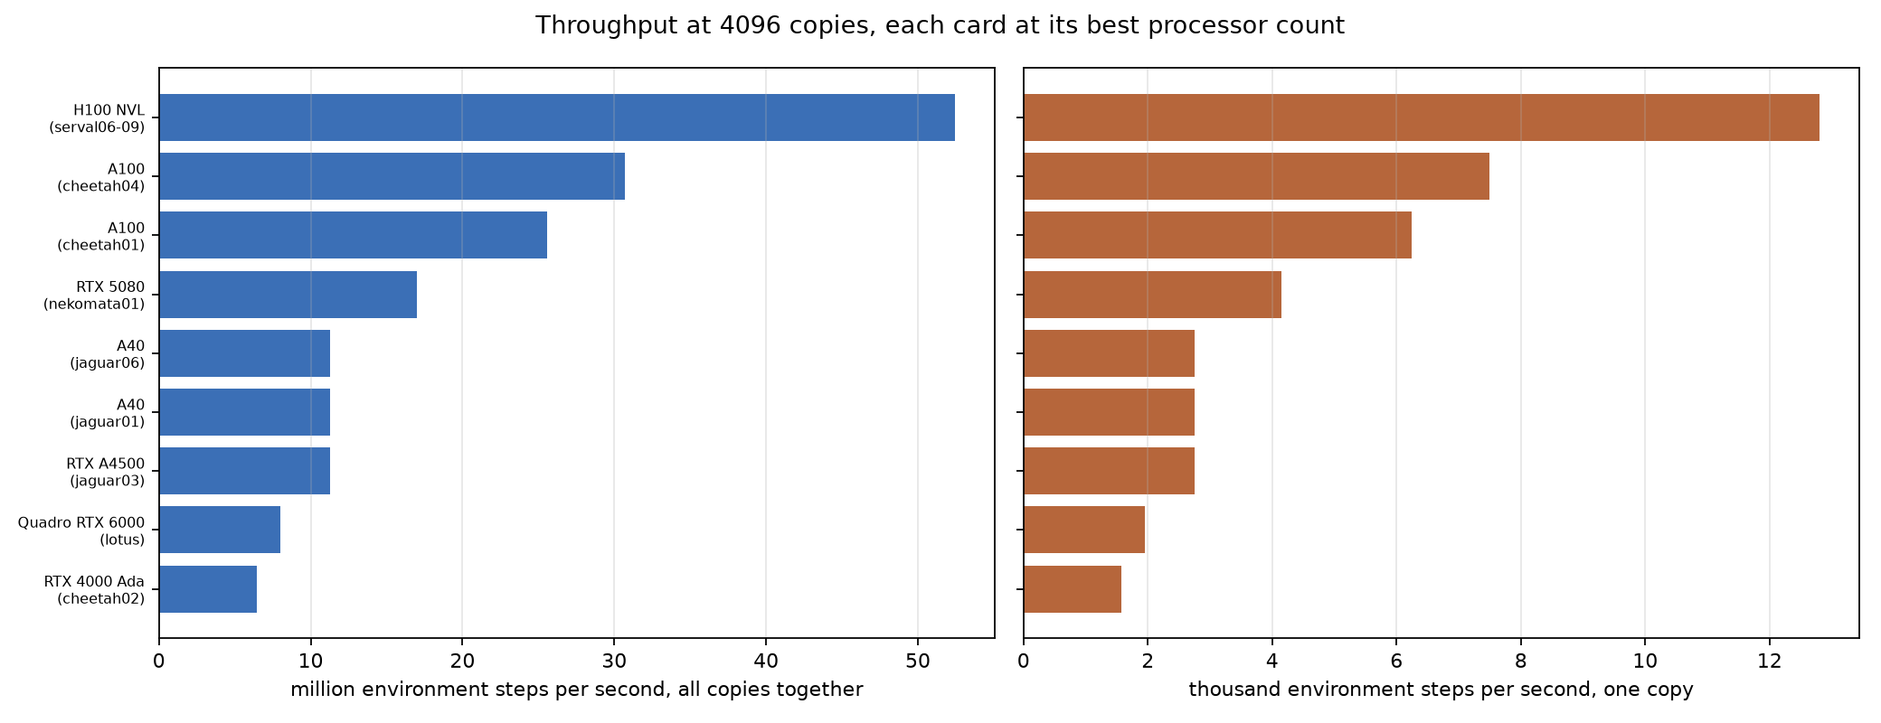
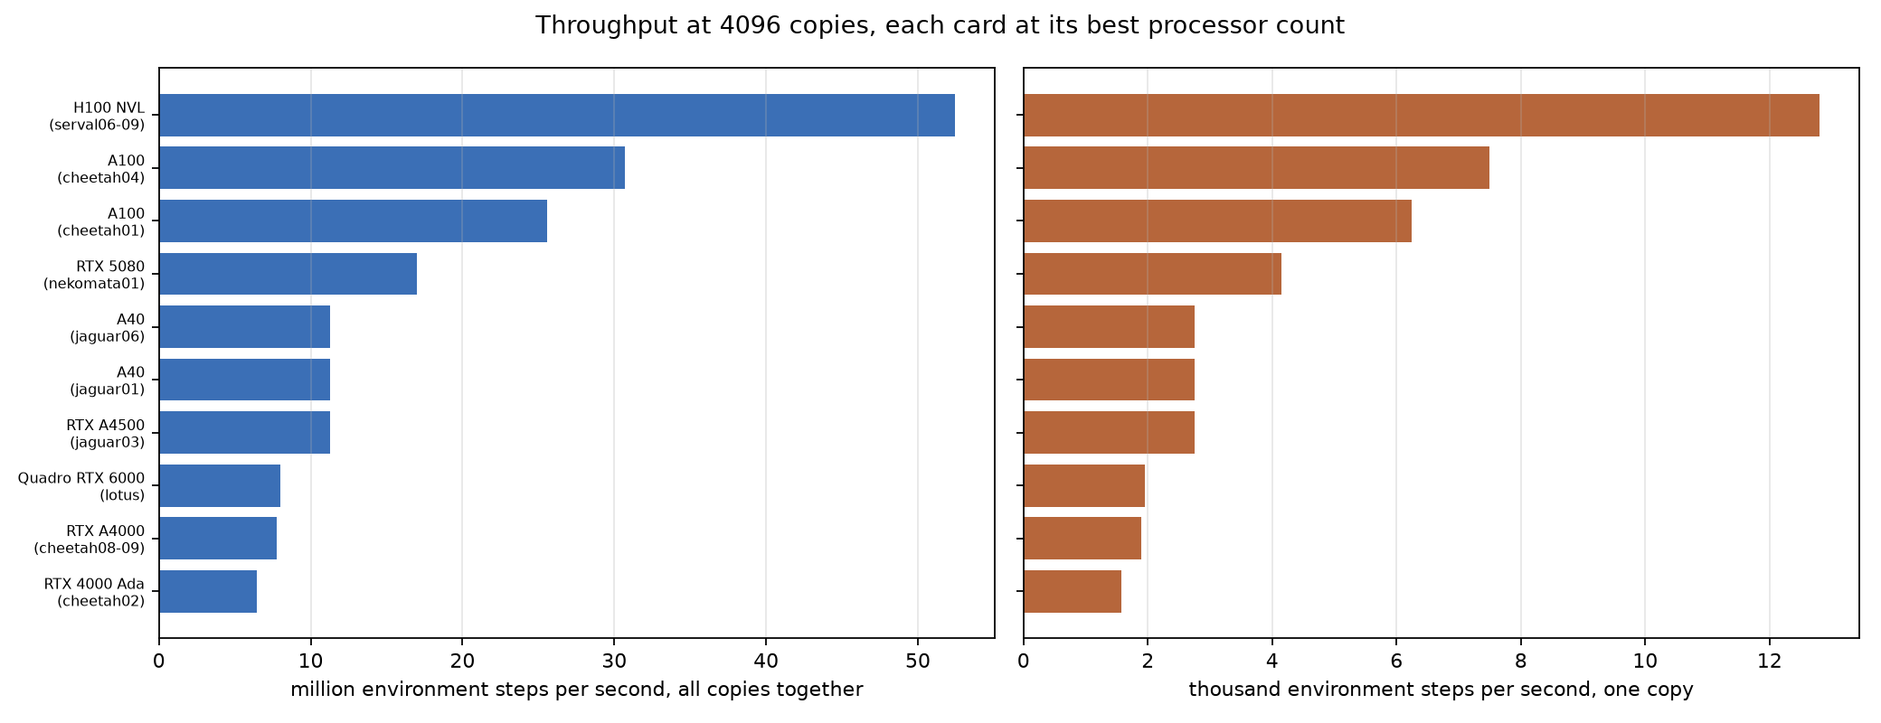
GPU throughput survey: keep the nine-column tables printable
The widest table rendered about 185 characters across, past the width of a printed page. The
long text cells carry the same meaning in fewer words, and the largest-copy-count column drops
the words the row's own cells already say: 164 characters now.

diff --git a/09_parallelization/2026-08-16-15-28_gpu_node_throughput_survey_jax-ppo-rnd_single-update_pointmaze-large_copies-512-1024-2048-4096_cpus-8-16-32_all-gpu-and-gnolim-node-classes/code/analyze.py b/09_parallelization/2026-08-16-15-28_gpu_node_throughput_survey_jax-ppo-rnd_single-update_pointmaze-large_copies-512-1024-2048-4096_cpus-8-16-32_all-gpu-and-gnolim-node-classes/code/analyze.py
@@ -147,11 +147,11 @@ def throughput_table(classes, jobs, n_copies):
             f"{c['peak_device_memory_mb'] / 1000:.1f} | "
             f"{c['relative_spread_middle_half'] * 100:.2f}% |")
     for r in unmeasured:
-        note = {"out_of_memory": "**does not fit on this card**",
-                "not_attempted_smaller_count_ran_out_of_memory":
-                    "**does not fit on this card**",
-                "not_attempted_out_of_time": "job ran out of time",
-                "failed": "job failed — see the log"}.get(r["note"], r["note"])
+        # kept short: this table is nine columns wide and has to stay printable
+        note = {"out_of_memory": "**does not fit**",
+                "not_attempted_smaller_count_ran_out_of_memory": "**does not fit**",
+                "not_attempted_out_of_time": "ran out of time",
+                "failed": "failed — see log"}.get(r["note"], r["note"])
         lines.append(f"| `{r['cls']['name']}` | {r['cls']['display_name']} | — | — | {note} | "
                      "— | — | — | — |")
     return "\n".join(lines)
@@ -409,7 +409,7 @@ def memory_table(classes, jobs):
     """
     lines = ["| node class | card | card memory<br>(GB) | " +
              " | ".join(f"{c} copies<br>(GB)" for c in COPY_COUNTS) +
-             " | GB per<br>1,000 copies | largest copy count<br>that fits |",
+             " | GB per<br>1,000 copies | largest copy<br>count that fits |",
              "|---|---|---|---|---|---|---|---|---|"]
     for cls in classes:
         # three outcomes per copy count, and they must never be printed alike: a measured peak,
@@ -432,12 +432,13 @@ def memory_table(classes, jobs):
         # what the card could hold if the proportionality continues: its memory, less the ~1 GB
         # the driver and the compiled program hold outside the trainer's arrays
         ceiling = int((cls["gpu_mem_mb"] / 1000 - 1.0) / (per_thousand / 1000))
+        # short, because the row's own cells already say which counts did not fit
         if ran_out:
-            note = f"{max(measured):,} measured; {min(ran_out):,} does not fit"
+            note = f"{max(measured):,}"
         elif unknown:
-            note = f"{max(measured):,} so far; about {ceiling:,} projected"
+            note = f"{max(measured):,} so far"
         else:
-            note = f"all four; about {ceiling:,} projected"
+            note = f"all four; ~{ceiling:,}"
         cells = [f"{measured[c]:.1f}" if c in measured
                  else ("does not fit" if c in ran_out else "not yet") for c in COPY_COUNTS]
         lines.append(f"| `{cls['name']}` | {cls['display_name']} | "

diff --git a/09_parallelization/2026-08-16-15-28_gpu_node_throughput_survey_jax-ppo-rnd_single-update_pointmaze-large_copies-512-1024-2048-4096_cpus-8-16-32_all-gpu-and-gnolim-node-classes/results.md b/09_parallelization/2026-08-16-15-28_gpu_node_throughput_survey_jax-ppo-rnd_single-update_pointmaze-large_copies-512-1024-2048-4096_cpus-8-16-32_all-gpu-and-gnolim-node-classes/results.md
@@ -1,8 +1,8 @@
 # Throughput of the single-update JAX PPO+RND trainer on every graphics card of this cluster
 
-Written 2026-08-16 16:37 PT. Times in this document are Pacific; the cluster's machines run Eastern, so every machine timestamp is converted where it is displayed.
+Written 2026-08-16 16:42 PT. Times in this document are Pacific; the cluster's machines run Eastern, so every machine timestamp is converted where it is displayed.
 
-66 of 80 jobs have reported, giving 214 measured cells; 44 cells did not fit on their card. 14 jobs are still queued or unrun — every number below is what has arrived, not a complete survey.
+67 of 80 jobs have reported, giving 218 measured cells; 45 cells did not fit on their card. 13 jobs are still queued or unrun — every number below is what has arrived, not a complete survey.
 
 ## 1. What was measured
 
@@ -24,14 +24,14 @@ One node per node class — nodes identical in card type, card memory, processor
 |---|---|---|---|---|---|---|---|
 | `serval03` | gpu | H100 NVL | 9.0 | 95.8 | amd epyc 9534 | none yet | 0/12 |
 | `serval06-09` | gpu | H100 NVL | 9.0 | 95.8 | amd epyc 9354 | 8, 16, 32 | 12/12 |
-| `cheetah01` | gpu | A100 | 8.0 | 41.0 | amd epyc 7252 | 8, 16, 28 | 9/12 |
+| `cheetah01` | gpu | A100 | 8.0 | 41.0 | amd epyc 7252 | 8, 16, 28 | 10/12 |
 | `cheetah04` | gpu | A100 | 8.0 | 81.1 | amd epyc 7742 | 8, 16, 32 | 12/12 |
 | `nekomata01` | gpu | RTX 5080 | 12.0 | 16.3 | icelake | 8, 16, 22 | 12/12 |
 | `jaguar01` | gpu | A40 | 8.6 | 46.1 | skylake | 8, 16, 32 | 12/12 |
 | `jaguar06` | gpu | A40 | 8.6 | 46.1 | icelake | 8, 16, 32 | 12/12 |
 | `cheetah02` | gpu | RTX 4000 Ada | 8.9 | 20.5 | skylake | 8, 16, 32 | 12/12 |
 | `jaguar03` | gpu | RTX A4500 | 8.6 | 20.5 | amd epyc 7663 | 8, 16, 32 | 12/12 |
-| `cheetah08-09` | gpu | RTX A4000 | 8.6 | 16.4 | skylake | 8 | 3/12 |
+| `cheetah08-09` | gpu | RTX A4000 | 8.6 | 16.4 | skylake | 8, 16 | 6/12 |
 | `jaguar02` | gpu | A16 | 8.6 | 15.4 | icelake | none yet | 0/12 |
 | `lotus` | gpu | Quadro RTX 6000 | 7.5 | 24.1 | skylake | 8, 16, 32 | 12/12 |
 | `affogato11` | gpu | RTX 2080 Ti | 7.5 | 10.9 | broadwell | 8 | 3/12 |
@@ -61,7 +61,7 @@ The tables in section 4 carry every card; this one carries the answer. Ten milli
 | 512 | H100 NVL | `serval06-09` | 0.04 | A100, 1.72x slower | 0 |
 | 1024 | H100 NVL | `serval06-09` | 0.06 | A100, 1.72x slower | 0 |
 | 2048 | H100 NVL | `serval06-09` | 0.11 | A100, 1.78x slower | 3 |
-| 4096 | H100 NVL | `serval06-09` | 0.22 | A100, 1.71x slower | 13 |
+| 4096 | H100 NVL | `serval06-09` | 0.22 | A100, 1.71x slower | 14 |
 
 ## 4.1 512 copies
 
@@ -77,7 +77,7 @@ Each class at whichever of its processor counts ran fastest. Best value in bold,
 | `jaguar03` | RTX A4500 | 32 | 0.0263 | 9.96 | 19,462 | 0.014 | 1.7 | 0.11% |
 | `jaguar06` | A40 | 16 | 0.0264 | 9.95 | 19,426 | 0.014 | 1.6 | 0.01% |
 | `lotus` | Quadro RTX 6000 | 16 | 0.0367 | 7.15 | 13,964 | 0.020 | 2.3 | 0.16% |
-| `cheetah08-09` | RTX A4000 | 8 | 0.0368 | 7.13 | 13,916 | 0.020 | 1.6 | 0.20% |
+| `cheetah08-09` | RTX A4000 | 16 | 0.0367 | 7.13 | 13,932 | 0.020 | 1.6 | 0.16% |
 | `cheetah03` | RTX 2080 Ti | 32 | 0.0381 | 6.88 | 13,443 | 0.021 | 2.3 | 0.22% |
 | `ai06` | RTX 2080 Ti | 30 | 0.0387 | 6.77 | 13,219 | 0.021 | 2.3 | 0.25% |
 | `ai01-04_lynx10` | RTX 2080 Ti | 8 | 0.0388 | 6.76 | 13,197 | 0.021 | 2.3 | 0.31% |
@@ -107,13 +107,13 @@ Each class at whichever of its processor counts ran fastest. Best value in bold,
 |---|---|---|---|---|---|---|---|---|
 | `serval06-09` | H100 NVL | 8 | 0.0115 | **45.67** | 44,599 | **0.006** | 3.4 | 0.35% |
 | `cheetah04` | A100 | 32 | 0.0198 | <u>26.50</u> | 25,882 | <u>0.011</u> | 3.2 | 0.01% |
-| `cheetah01` | A100 | 16 | 0.0231 | 22.67 | 22,143 | 0.013 | 3.2 | 0.11% |
+| `cheetah01` | A100 | 28 | 0.0231 | 22.71 | 22,180 | 0.013 | 3.2 | 0.06% |
 | `nekomata01` | RTX 5080 | 8 | 0.0301 | 17.42 | 17,010 | 0.016 | 3.2 | 0.02% |
 | `jaguar06` | A40 | 8 | 0.0493 | 10.65 | 10,396 | 0.027 | 3.4 | 0.01% |
 | `jaguar01` | A40 | 32 | 0.0493 | 10.64 | 10,387 | 0.027 | 3.4 | 0.19% |
 | `jaguar03` | RTX A4500 | 32 | 0.0496 | 10.58 | 10,332 | 0.027 | 3.4 | 0.01% |
 | `lotus` | Quadro RTX 6000 | 8 | 0.0684 | 7.67 | 7,486 | 0.037 | 4.7 | 0.17% |
-| `cheetah08-09` | RTX A4000 | 8 | 0.0702 | 7.46 | 7,290 | 0.038 | 3.4 | 0.07% |
+| `cheetah08-09` | RTX A4000 | 16 | 0.0701 | 7.48 | 7,308 | 0.038 | 3.4 | 0.11% |
 | `cheetah03` | RTX 2080 Ti | 8 | 0.0714 | 7.34 | 7,171 | 0.039 | 4.7 | 0.13% |
 | `affogato11` | RTX 2080 Ti | 8 | 0.0726 | 7.22 | 7,048 | 0.039 | 4.7 | 0.15% |
 | `ai06` | RTX 2080 Ti | 8 | 0.0730 | 7.18 | 7,011 | 0.040 | 4.7 | 0.20% |
@@ -164,10 +164,10 @@ Each class at whichever of its processor counts ran fastest. Best value in bold,
 | `lynx05-07` | Tesla P100 | 8 | 0.2395 | 4.38 | 2,138 | 0.130 | 9.5 | 0.02% |
 | `serval03` | H100 NVL | — | — | not measured yet | — | — | — | — |
 | `jaguar02` | A16 | — | — | not measured yet | — | — | — | — |
-| `adriatic01-06` | Quadro RTX 4000 | — | — | **does not fit on this card** | — | — | — | — |
+| `adriatic01-06` | Quadro RTX 4000 | — | — | **does not fit** | — | — | — | — |
 | `jaguar05` | Quadro RTX 4000 | — | — | not measured yet | — | — | — | — |
-| `ai05_ai10` | GTX 1080 | — | — | **does not fit on this card** | — | — | — | — |
-| `jinx01-02` | GTX 1080 | — | — | **does not fit on this card** | — | — | — | — |
+| `ai05_ai10` | GTX 1080 | — | — | **does not fit** | — | — | — | — |
+| `jinx01-02` | GTX 1080 | — | — | **does not fit** | — | — | — | — |
 
 ![cards at 2048 copies](plots/card_ranking_copies-2048.png)
 
@@ -185,25 +185,25 @@ Each class at whichever of its processor counts ran fastest. Best value in bold,
 | `jaguar01` | A40 | 16 | 0.1862 | 11.27 | 2,750 | 0.101 | 11.3 | 0.01% |
 | `jaguar03` | RTX A4500 | 8 | 0.1864 | 11.25 | 2,747 | 0.101 | 11.3 | 0.01% |
 | `lotus` | Quadro RTX 6000 | 32 | 0.2628 | 7.98 | 1,949 | 0.143 | 18.8 | 0.18% |
+| `cheetah08-09` | RTX A4000 | 8 | 0.2696 | 7.78 | 1,899 | 0.146 | 11.3 | 0.04% |
 | `cheetah02` | RTX 4000 Ada | 8 | 0.3265 | 6.42 | 1,568 | 0.177 | 11.3 | 0.03% |
 | `serval03` | H100 NVL | — | — | not measured yet | — | — | — | — |
-| `cheetah08-09` | RTX A4000 | — | — | not measured yet | — | — | — | — |
 | `jaguar02` | A16 | — | — | not measured yet | — | — | — | — |
-| `affogato11` | RTX 2080 Ti | — | — | not measured yet | — | — | — | — |
-| `ai01-04_lynx10` | RTX 2080 Ti | — | — | **does not fit on this card** | — | — | — | — |
-| `ai06` | RTX 2080 Ti | — | — | **does not fit on this card** | — | — | — | — |
-| `cheetah03` | RTX 2080 Ti | — | — | **does not fit on this card** | — | — | — | — |
-| `adriatic01-06` | Quadro RTX 4000 | — | — | **does not fit on this card** | — | — | — | — |
+| `affogato11` | RTX 2080 Ti | — | — | **does not fit** | — | — | — | — |
+| `ai01-04_lynx10` | RTX 2080 Ti | — | — | **does not fit** | — | — | — | — |
+| `ai06` | RTX 2080 Ti | — | — | **does not fit** | — | — | — | — |
+| `cheetah03` | RTX 2080 Ti | — | — | **does not fit** | — | — | — | — |
+| `adriatic01-06` | Quadro RTX 4000 | — | — | **does not fit** | — | — | — | — |
 | `jaguar05` | Quadro RTX 4000 | — | — | not measured yet | — | — | — | — |
-| `lynx05-07` | Tesla P100 | — | — | **does not fit on this card** | — | — | — | — |
-| `lynx01` | Titan Xp | — | — | **does not fit on this card** | — | — | — | — |
-| `affogato13-15` | GTX 1080 Ti | — | — | **does not fit on this card** | — | — | — | — |
-| `ai07-08` | GTX 1080 Ti | — | — | **does not fit on this card** | — | — | — | — |
-| `ai09` | GTX 1080 Ti | — | — | **does not fit on this card** | — | — | — | — |
-| `lynx02-04` | GTX 1080 Ti | — | — | **does not fit on this card** | — | — | — | — |
-| `ai05_ai10` | GTX 1080 | — | — | **does not fit on this card** | — | — | — | — |
-| `jinx01-02` | GTX 1080 | — | — | **does not fit on this card** | — | — | — | — |
-| `titanx03` | Titan X | — | — | **does not fit on this card** | — | — | — | — |
+| `lynx05-07` | Tesla P100 | — | — | **does not fit** | — | — | — | — |
+| `lynx01` | Titan Xp | — | — | **does not fit** | — | — | — | — |
+| `affogato13-15` | GTX 1080 Ti | — | — | **does not fit** | — | — | — | — |
+| `ai07-08` | GTX 1080 Ti | — | — | **does not fit** | — | — | — | — |
+| `ai09` | GTX 1080 Ti | — | — | **does not fit** | — | — | — | — |
+| `lynx02-04` | GTX 1080 Ti | — | — | **does not fit** | — | — | — | — |
+| `ai05_ai10` | GTX 1080 | — | — | **does not fit** | — | — | — | — |
+| `jinx01-02` | GTX 1080 | — | — | **does not fit** | — | — | — | — |
+| `titanx03` | Titan X | — | — | **does not fit** | — | — | — | — |
 
 ![cards at 4096 copies](plots/card_ranking_copies-4096.png)
 
@@ -215,7 +215,7 @@ Each class at whichever of its processor counts ran fastest. Best value in bold,
 
 The trainer keeps its arrays on the card and the host only dispatches, so the expectation is that 8, 16 and 32 processors give the same iteration time.
 
-**It does not.** Over the 72 card-and-copy-count combinations measured at two or more processor counts, the slowest processor count was slower than the fastest by 0.2% in the typical case and 2.6% at the very worst — the size of the measurement's own noise, and with no consistent direction: more processors are as often marginally slower as marginally faster. Eight processors is therefore the right request for this trainer, and the processors beyond that are free to carry other work.
+**It does not.** Over the 74 card-and-copy-count combinations measured at two or more processor counts, the slowest processor count was slower than the fastest by 0.2% in the typical case and 2.6% at the very worst — the size of the measurement's own noise, and with no consistent direction: more processors are as often marginally slower as marginally faster. Eight processors is therefore the right request for this trainer, and the processors beyond that are free to carry other work.
 
 The table below is the evidence, one row per card and copy count; its last column is the span between the fastest and the slowest processor count as a fraction of the fastest. A count this node class cannot allocate reads N/A; one it can allocate but has not yet reported reads "not yet".
 
@@ -226,7 +226,7 @@ The table below is the evidence, one row per card and copy count; its last colum
 | `serval06-09` | H100 NVL | 2048 | 20.9 | 20.8 | 20.6 | N/A | 1.4% |
 | `serval06-09` | H100 NVL | 4096 | 40.0 | 40.0 | 40.0 | N/A | 0.0% |
 | `cheetah01` | A100 | 512 | 13.9 | 14.0 | N/A | 28, 13.9 | 0.9% |
-| `cheetah01` | A100 | 1024 | 23.1 | 23.1 | N/A | 28, not yet | 0.1% |
+| `cheetah01` | A100 | 1024 | 23.1 | 23.1 | N/A | 28, 23.1 | 0.2% |
 | `cheetah01` | A100 | 2048 | 43.7 | 43.9 | N/A | 28, not yet | 0.5% |
 | `cheetah01` | A100 | 4096 | 82.0 | 82.2 | N/A | 28, not yet | 0.3% |
 | `cheetah04` | A100 | 512 | 12.5 | 12.4 | 12.4 | N/A | 0.4% |
@@ -253,6 +253,8 @@ The table below is the evidence, one row per card and copy count; its last colum
 | `jaguar03` | RTX A4500 | 1024 | 49.6 | 49.6 | 49.6 | N/A | 0.2% |
 | `jaguar03` | RTX A4500 | 2048 | 95.1 | 95.1 | 95.2 | N/A | 0.1% |
 | `jaguar03` | RTX A4500 | 4096 | 186.4 | 186.4 | 186.5 | N/A | 0.1% |
+| `cheetah08-09` | RTX A4000 | 512 | 36.8 | 36.7 | not yet | N/A | 0.1% |
+| `cheetah08-09` | RTX A4000 | 1024 | 70.2 | 70.1 | not yet | N/A | 0.2% |
 | `lotus` | Quadro RTX 6000 | 512 | 36.7 | 36.7 | 36.8 | N/A | 0.4% |
 | `lotus` | Quadro RTX 6000 | 1024 | 68.4 | 68.4 | 68.5 | N/A | 0.2% |
 | `lotus` | Quadro RTX 6000 | 2048 | 133.4 | 132.8 | 133.5 | N/A | 0.5% |
@@ -298,32 +300,32 @@ The table below is the evidence, one row per card and copy count; its last colum
 
 Memory grows in proportion to the copy count — doubling the copies doubles the peak — so the cost per copy measured at any one count says where a card's ceiling is. The last column applies that: the card's memory, less about a gigabyte the driver and the compiled program hold outside the trainer's arrays, divided by the cost of one copy. That figure is a projection, not a measurement: on the largest cards it extrapolates several times past the biggest copy count anyone ran here, and it assumes the proportionality holds that far, which nothing in this survey checked.
 
-| node class | card | card memory<br>(GB) | 512 copies<br>(GB) | 1024 copies<br>(GB) | 2048 copies<br>(GB) | 4096 copies<br>(GB) | GB per<br>1,000 copies | largest copy count<br>that fits |
+| node class | card | card memory<br>(GB) | 512 copies<br>(GB) | 1024 copies<br>(GB) | 2048 copies<br>(GB) | 4096 copies<br>(GB) | GB per<br>1,000 copies | largest copy<br>count that fits |
 |---|---|---|---|---|---|---|---|---|
-| `serval06-09` | H100 NVL | 95.8 | 1.8 | 3.4 | 6.8 | 13.4 | 3.36 | all four; about 28,216 projected |
-| `cheetah01` | A100 | 41.0 | 1.6 | 3.2 | 5.8 | 11.3 | 2.96 | all four; about 13,490 projected |
-| `cheetah04` | A100 | 81.1 | 1.7 | 3.2 | 5.8 | 11.3 | 2.99 | all four; about 26,767 projected |
-| `nekomata01` | RTX 5080 | 16.3 | 1.7 | 3.2 | 6.6 | 11.3 | 3.09 | all four; about 4,945 projected |
-| `jaguar01` | A40 | 46.1 | 1.6 | 3.4 | 5.8 | 11.3 | 3.00 | all four; about 15,032 projected |
-| `jaguar06` | A40 | 46.1 | 1.6 | 3.4 | 5.8 | 11.3 | 3.00 | all four; about 15,044 projected |
-| `cheetah02` | RTX 4000 Ada | 20.5 | 1.6 | 3.6 | 5.8 | 11.3 | 3.06 | all four; about 6,359 projected |
-| `jaguar03` | RTX A4500 | 20.5 | 1.7 | 3.4 | 5.8 | 11.3 | 3.03 | all four; about 6,431 projected |
-| `cheetah08-09` | RTX A4000 | 16.4 | 1.6 | 3.4 | 5.8 | not yet | 3.08 | 2,048 so far; about 4,994 projected |
-| `lotus` | Quadro RTX 6000 | 24.1 | 2.3 | 4.7 | 9.5 | 18.8 | 4.60 | all four; about 5,018 projected |
-| `affogato11` | RTX 2080 Ti | 10.9 | 2.3 | 4.7 | 9.5 | not yet | 4.60 | 2,048 so far; about 2,140 projected |
-| `ai01-04_lynx10` | RTX 2080 Ti | 10.9 | 2.3 | 4.7 | 9.5 | does not fit | 4.60 | 2,048 measured; 4,096 does not fit |
-| `ai06` | RTX 2080 Ti | 10.9 | 2.3 | 4.7 | 9.5 | does not fit | 4.60 | 2,048 measured; 4,096 does not fit |
-| `cheetah03` | RTX 2080 Ti | 10.9 | 2.3 | 4.7 | 9.5 | does not fit | 4.60 | 2,048 measured; 4,096 does not fit |
-| `adriatic01-06` | Quadro RTX 4000 | 7.8 | 2.3 | 4.7 | does not fit | does not fit | 4.58 | 1,024 measured; 2,048 does not fit |
-| `lynx05-07` | Tesla P100 | 12.2 | 2.3 | 4.7 | 9.5 | does not fit | 4.60 | 2,048 measured; 4,096 does not fit |
-| `lynx01` | Titan Xp | 12.2 | 2.3 | 4.7 | 9.5 | does not fit | 4.60 | 2,048 measured; 4,096 does not fit |
-| `affogato13-15` | GTX 1080 Ti | 11.3 | 2.3 | 4.7 | 9.5 | does not fit | 4.60 | 2,048 measured; 4,096 does not fit |
-| `ai07-08` | GTX 1080 Ti | 11.3 | 2.3 | 4.7 | 9.5 | does not fit | 4.60 | 2,048 measured; 4,096 does not fit |
-| `ai09` | GTX 1080 Ti | 11.3 | 2.3 | 4.7 | 9.5 | does not fit | 4.60 | 2,048 measured; 4,096 does not fit |
-| `lynx02-04` | GTX 1080 Ti | 11.3 | 2.3 | 4.7 | 9.5 | does not fit | 4.60 | 2,048 measured; 4,096 does not fit |
-| `ai05_ai10` | GTX 1080 | 8.2 | 2.3 | 4.7 | does not fit | does not fit | 4.58 | 1,024 measured; 2,048 does not fit |
-| `jinx01-02` | GTX 1080 | 8.2 | 2.3 | 4.7 | does not fit | does not fit | 4.58 | 1,024 measured; 2,048 does not fit |
-| `titanx03` | Titan X | 12.3 | 2.3 | 4.7 | 9.5 | does not fit | 4.60 | 2,048 measured; 4,096 does not fit |
+| `serval06-09` | H100 NVL | 95.8 | 1.8 | 3.4 | 6.8 | 13.4 | 3.36 | all four; ~28,216 |
+| `cheetah01` | A100 | 41.0 | 1.6 | 3.2 | 5.8 | 11.3 | 2.96 | all four; ~13,490 |
+| `cheetah04` | A100 | 81.1 | 1.7 | 3.2 | 5.8 | 11.3 | 2.99 | all four; ~26,767 |
+| `nekomata01` | RTX 5080 | 16.3 | 1.7 | 3.2 | 6.6 | 11.3 | 3.09 | all four; ~4,945 |
+| `jaguar01` | A40 | 46.1 | 1.6 | 3.4 | 5.8 | 11.3 | 3.00 | all four; ~15,032 |
+| `jaguar06` | A40 | 46.1 | 1.6 | 3.4 | 5.8 | 11.3 | 3.00 | all four; ~15,044 |
+| `cheetah02` | RTX 4000 Ada | 20.5 | 1.6 | 3.6 | 5.8 | 11.3 | 3.06 | all four; ~6,359 |
+| `jaguar03` | RTX A4500 | 20.5 | 1.7 | 3.4 | 5.8 | 11.3 | 3.03 | all four; ~6,431 |
+| `cheetah08-09` | RTX A4000 | 16.4 | 1.6 | 3.4 | 5.8 | 11.3 | 3.00 | all four; ~5,129 |
+| `lotus` | Quadro RTX 6000 | 24.1 | 2.3 | 4.7 | 9.5 | 18.8 | 4.60 | all four; ~5,018 |
+| `affogato11` | RTX 2080 Ti | 10.9 | 2.3 | 4.7 | 9.5 | does not fit | 4.60 | 2,048 |
+| `ai01-04_lynx10` | RTX 2080 Ti | 10.9 | 2.3 | 4.7 | 9.5 | does not fit | 4.60 | 2,048 |
+| `ai06` | RTX 2080 Ti | 10.9 | 2.3 | 4.7 | 9.5 | does not fit | 4.60 | 2,048 |
+| `cheetah03` | RTX 2080 Ti | 10.9 | 2.3 | 4.7 | 9.5 | does not fit | 4.60 | 2,048 |
+| `adriatic01-06` | Quadro RTX 4000 | 7.8 | 2.3 | 4.7 | does not fit | does not fit | 4.58 | 1,024 |
+| `lynx05-07` | Tesla P100 | 12.2 | 2.3 | 4.7 | 9.5 | does not fit | 4.60 | 2,048 |
+| `lynx01` | Titan Xp | 12.2 | 2.3 | 4.7 | 9.5 | does not fit | 4.60 | 2,048 |
+| `affogato13-15` | GTX 1080 Ti | 11.3 | 2.3 | 4.7 | 9.5 | does not fit | 4.60 | 2,048 |
+| `ai07-08` | GTX 1080 Ti | 11.3 | 2.3 | 4.7 | 9.5 | does not fit | 4.60 | 2,048 |
+| `ai09` | GTX 1080 Ti | 11.3 | 2.3 | 4.7 | 9.5 | does not fit | 4.60 | 2,048 |
+| `lynx02-04` | GTX 1080 Ti | 11.3 | 2.3 | 4.7 | 9.5 | does not fit | 4.60 | 2,048 |
+| `ai05_ai10` | GTX 1080 | 8.2 | 2.3 | 4.7 | does not fit | does not fit | 4.58 | 1,024 |
+| `jinx01-02` | GTX 1080 | 8.2 | 2.3 | 4.7 | does not fit | does not fit | 4.58 | 1,024 |
+| `titanx03` | Titan X | 12.3 | 2.3 | 4.7 | 9.5 | does not fit | 4.60 | 2,048 |
 
 **The same run needs 66% more memory on an older card.** Every card at compute capability 8.0 and above — Ampere, Ada, Hopper, Blackwell — holds 4,096 copies in about 11.3 GB, while every Turing and Pascal card needs about 18.8 GB for exactly the same work, and the H100 sits slightly above its generation at 13.4 GB. The split follows the card generation and not the card's size or speed, so it is the compiler emitting a different program for the older architectures, not the trainer asking for more. What in that program costs the extra memory was not investigated here. The practical consequence is that the memory ceiling of an older card is reached about a third sooner than its size alone suggests.
 
@@ -335,18 +337,18 @@ The throughput figures above are steady-state: compilation and warm-up are disca
 
 | copies | building the trainer<br>(seconds) | compiling the iteration<br>(seconds) | total before the<br>first iteration | iterations that time would<br>buy on an H100 |
 |---|---|---|---|---|
-| 512 | 34 | 27 | 61 | 8,406 |
-| 1024 | 59 | 26 | 85 | 7,384 |
+| 512 | 33 | 27 | 60 | 8,345 |
+| 1024 | 59 | 27 | 85 | 7,419 |
 | 2048 | 114 | 30 | 144 | 6,891 |
-| 4096 | 216 | 39 | 255 | 6,367 |
+| 4096 | 217 | 39 | 255 | 6,388 |
 
-More processors do not shorten it. At 4,096 copies the build took 208 s on 8, 220 s on 16, 196 s on 22, 218 s on 32 processors — the same time throughout, because the weights are drawn one copy at a time in a single-threaded loop on the host, so the work never reaches the other processors. It is the one part of a run that would gain from being vectorised across copies rather than looped.
+More processors do not shorten it. At 4,096 copies the build took 211 s on 8, 220 s on 16, 196 s on 22, 218 s on 32 processors — the same time throughout, because the weights are drawn one copy at a time in a single-threaded loop on the host, so the work never reaches the other processors. It is the one part of a run that would gain from being vectorised across copies rather than looped.
 
 This is a fixed cost, so it decides whether splitting work across cards pays. Two jobs of 2,048 copies each pay the setup twice; one job of 4,096 pays it once. It also sets a floor under how short a useful run can be — at 4,096 copies the setup alone is about four minutes before a single environment step is taken.
 
 ## 9. How firm these numbers are
 
-Across all 214 measured cells the middle half of the timing rounds sat within 0.10% of the median in the typical cell, within 0.53% in the worst 5%, and never worse than 1.11%. 214 of 214 cells reached the 2% settling target, every one of them within the six-round floor — so no number here rests on a timing that was still drifting when it was taken.
+Across all 218 measured cells the middle half of the timing rounds sat within 0.10% of the median in the typical cell, within 0.53% in the worst 5%, and never worse than 1.11%. 218 of 218 cells reached the 2% settling target, every one of them within the six-round floor — so no number here rests on a timing that was still drifting when it was taken.
 
 ## 10. What is still missing
 
@@ -355,7 +357,6 @@ These jobs have not reported. Jobs pinned to a busy node stay queued on purpose 
 - `serval03` at 8 processors (H100 NVL, partition gpu) — this card is already measured on another node class, so the gap is the host processor only
 - `serval03` at 16 processors (H100 NVL, partition gpu) — this card is already measured on another node class, so the gap is the host processor only
 - `serval03` at 32 processors (H100 NVL, partition gpu) — this card is already measured on another node class, so the gap is the host processor only
-- `cheetah08-09` at 16 processors (RTX A4000, partition gpu) — this card is already measured on another node class, so the gap is the host processor only
 - `cheetah08-09` at 32 processors (RTX A4000, partition gpu) — this card is already measured on another node class, so the gap is the host processor only
 - `jaguar02` at 8 processors (A16, partition gpu) — **this card is measured nowhere else**
 - `jaguar02` at 16 processors (A16, partition gpu) — **this card is measured nowhere else**
